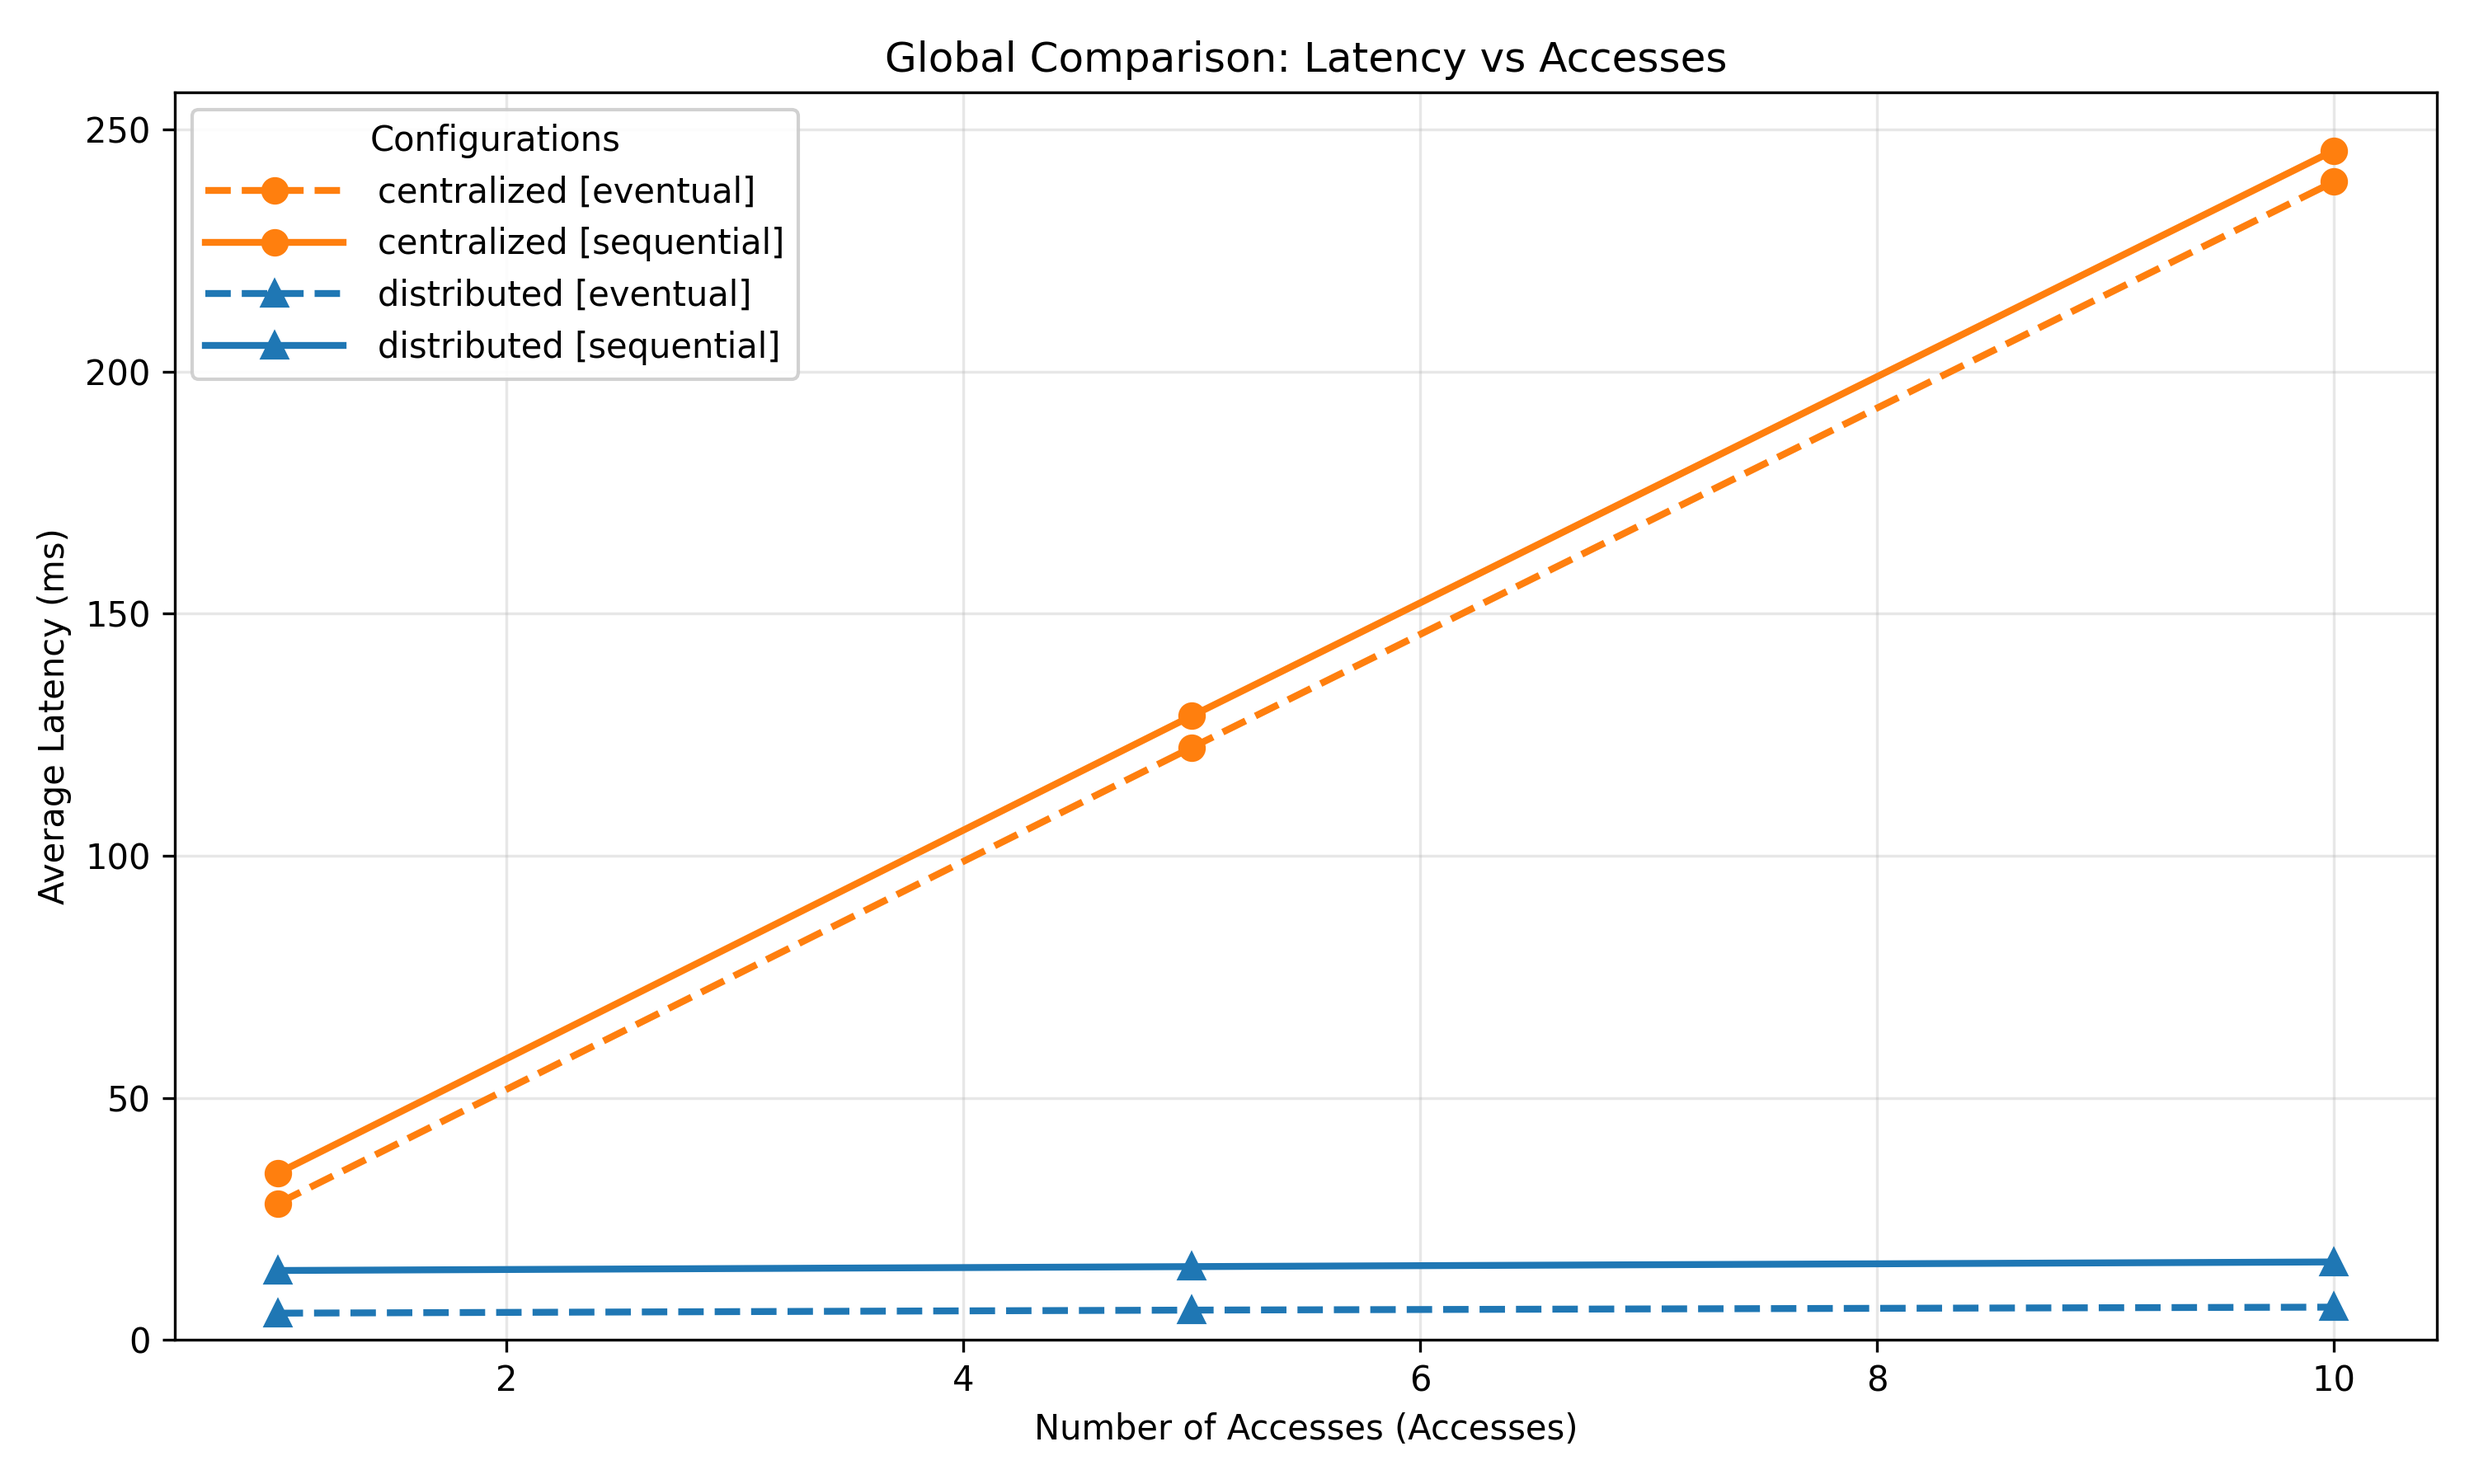
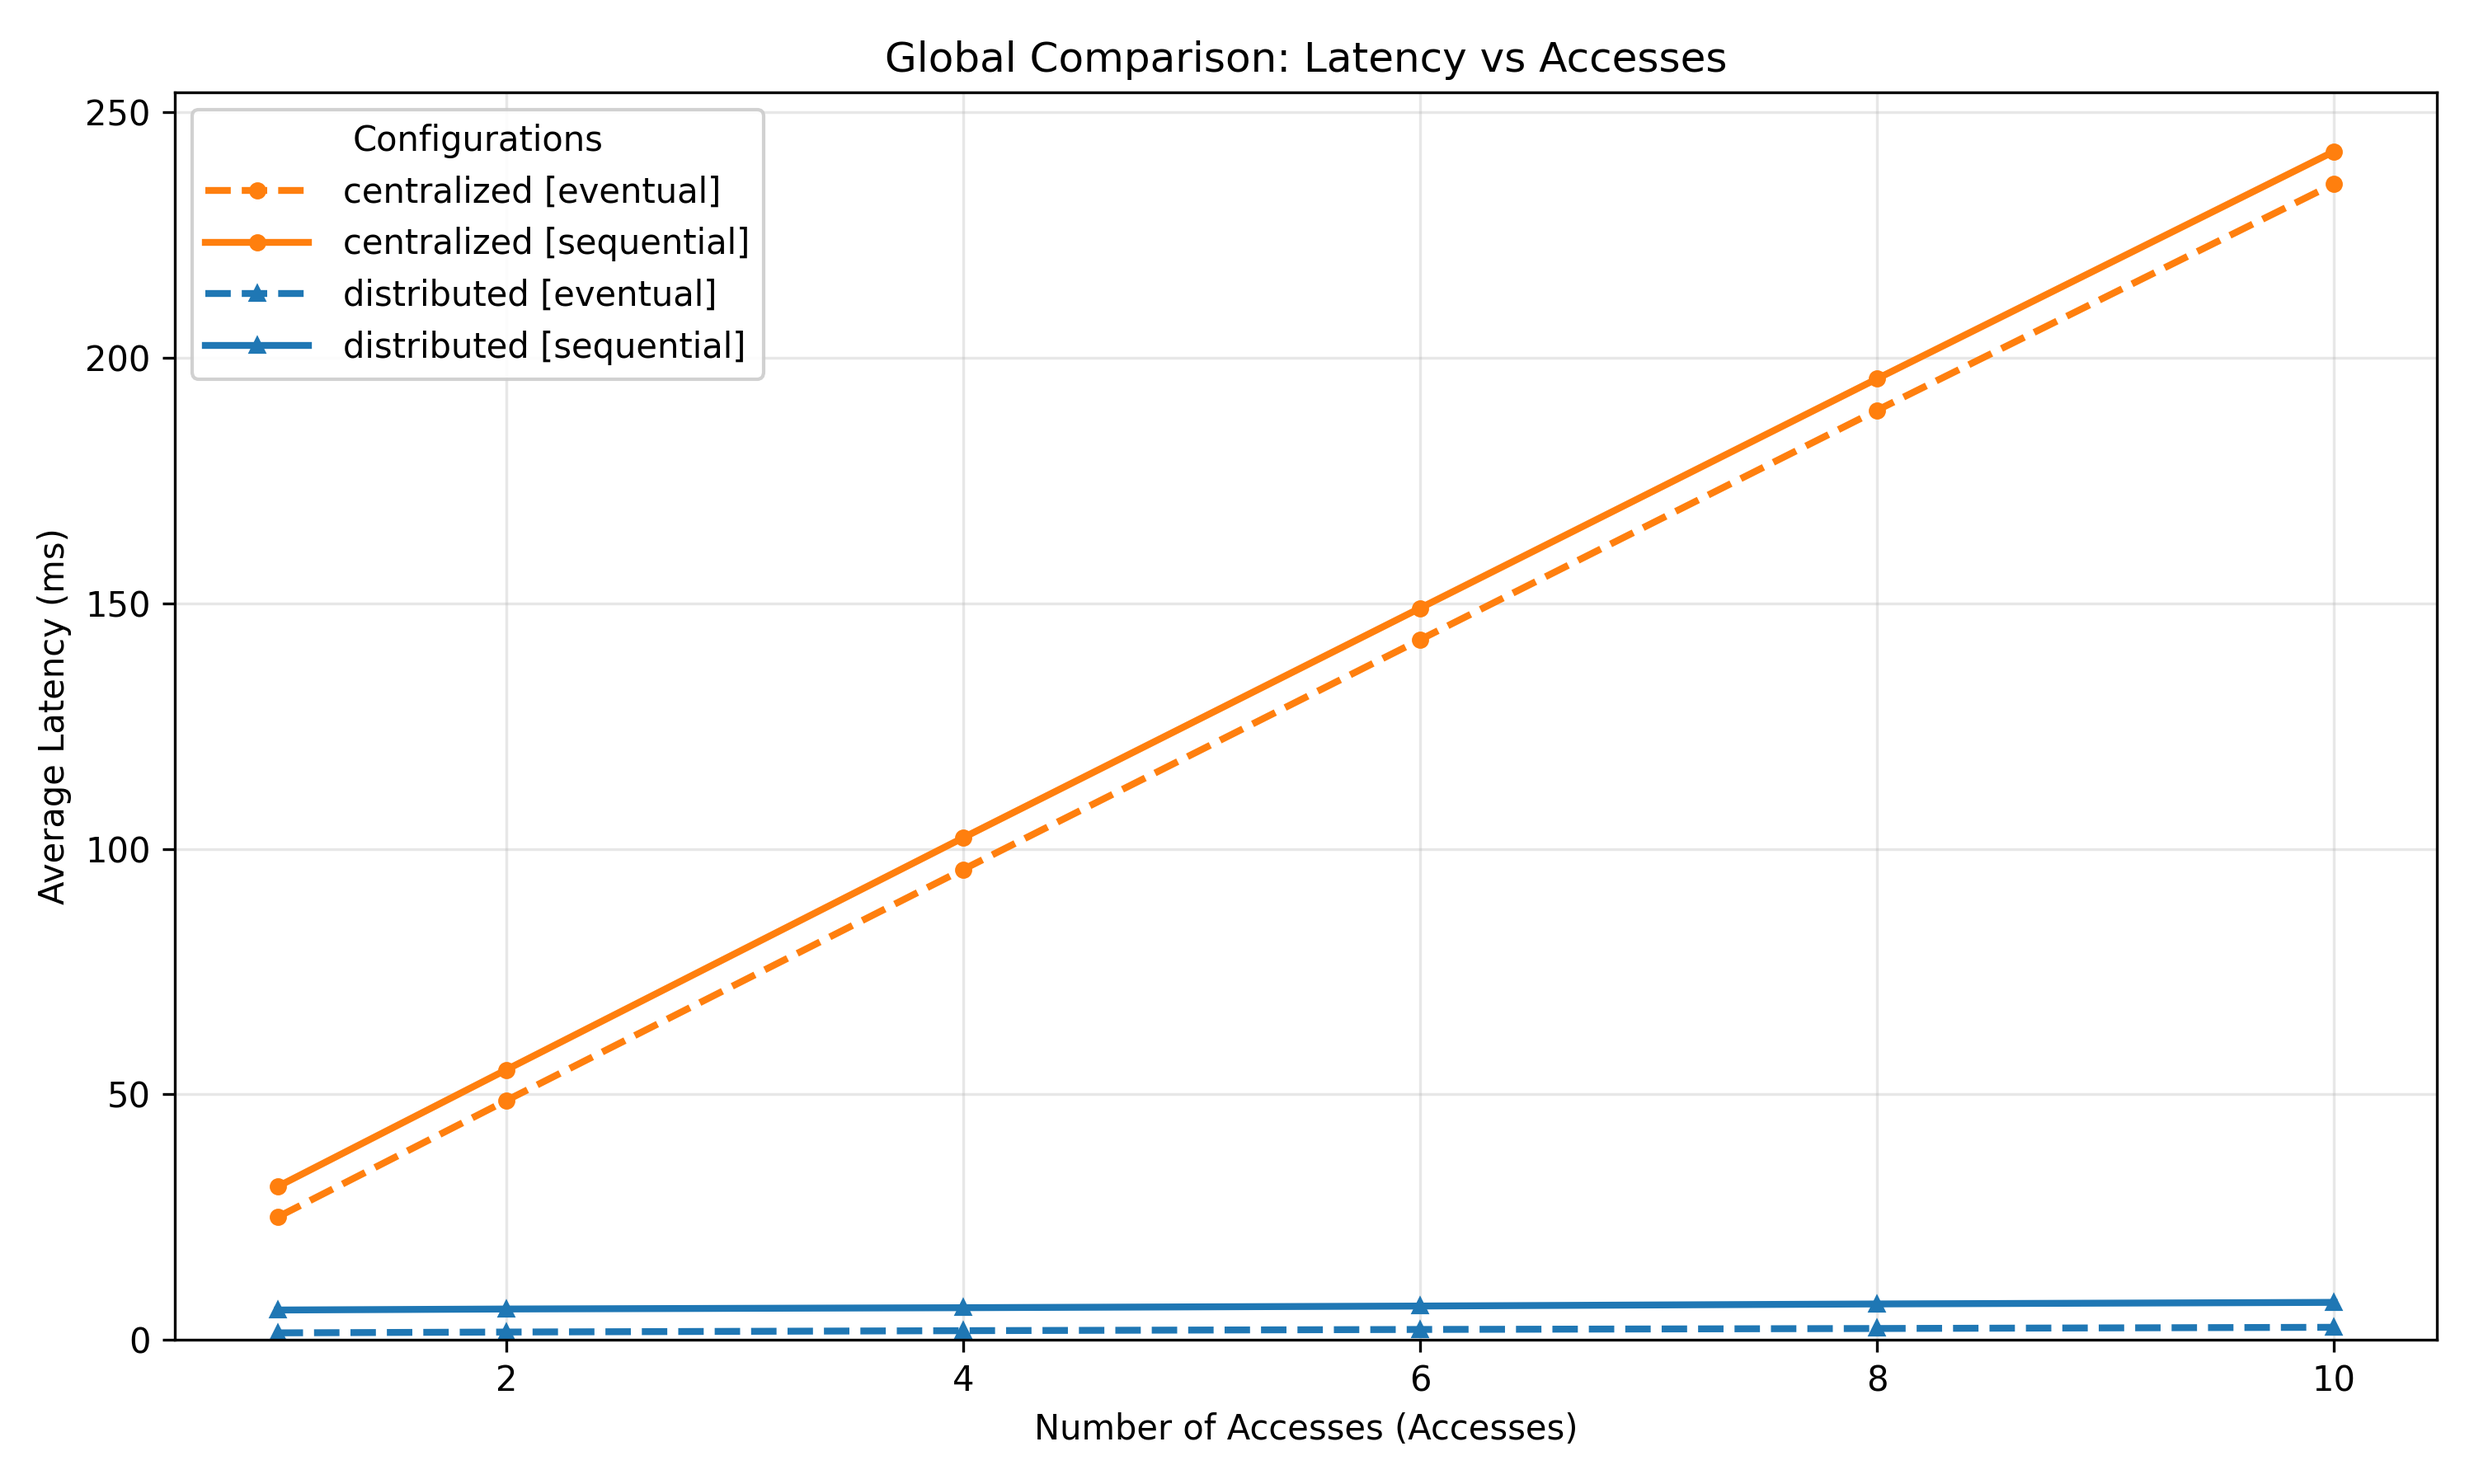
Update variable accesses experiment

diff --git a/ermes_benchmark/micro_bench/accesses_graph_generator.py b/ermes_benchmark/micro_bench/accesses_graph_generator.py
@@ -118,7 +118,7 @@ def plot_global_comparison(aggregated_data, unique_files, save_path=None):
 
         # Plot solo linea e marker
         ax.plot(xs_arr, avg_arr, marker=marker, linestyle=linestyle,
-                color=color, linewidth=2, label=label_text, markersize=7)
+                color=color, linewidth=2, label=label_text, markersize=4)
 
     ax.set_xlabel(f"Number of Accesses ({X_AXIS_COL})")
     ax.set_ylabel("Average Latency (ms)")
@@ -128,7 +128,7 @@ def plot_global_comparison(aggregated_data, unique_files, save_path=None):
     ax.grid(True, alpha=0.3)
 
     # Legenda interna
-    ax.legend(loc='best', title="Configurations", framealpha=0.9, handlelength=4, handletextpad=1)
+    ax.legend(loc='best', title="Configurations", framealpha=0.9, handlelength=3, handletextpad=1)
 
     fig.tight_layout()
 
